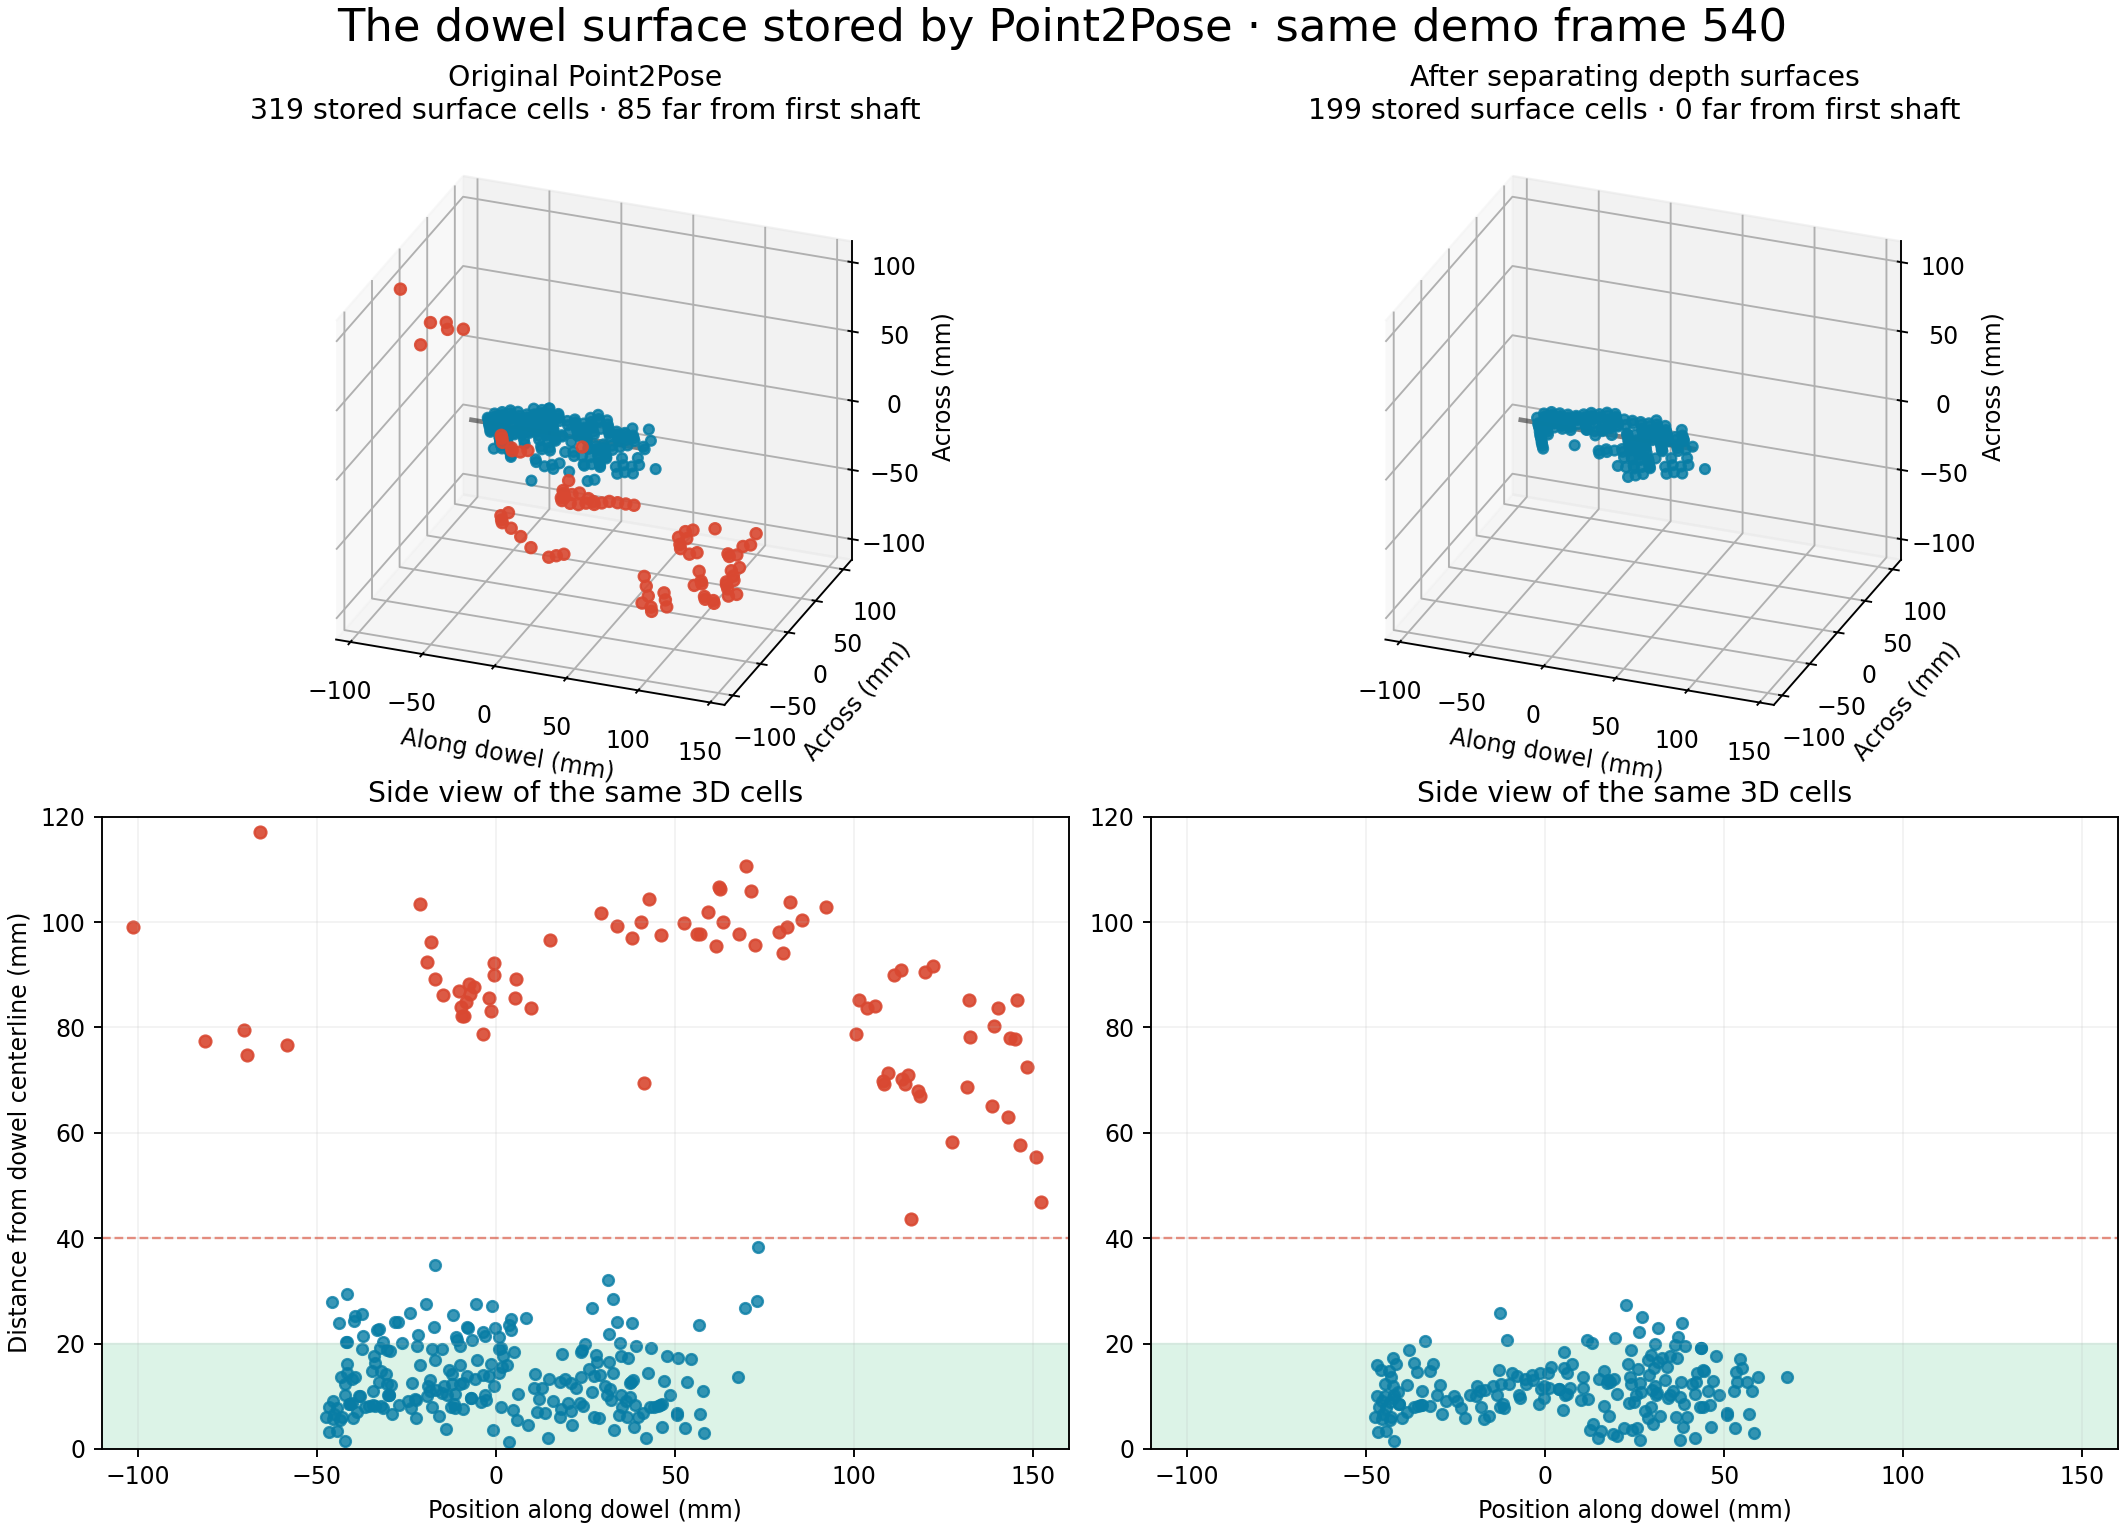
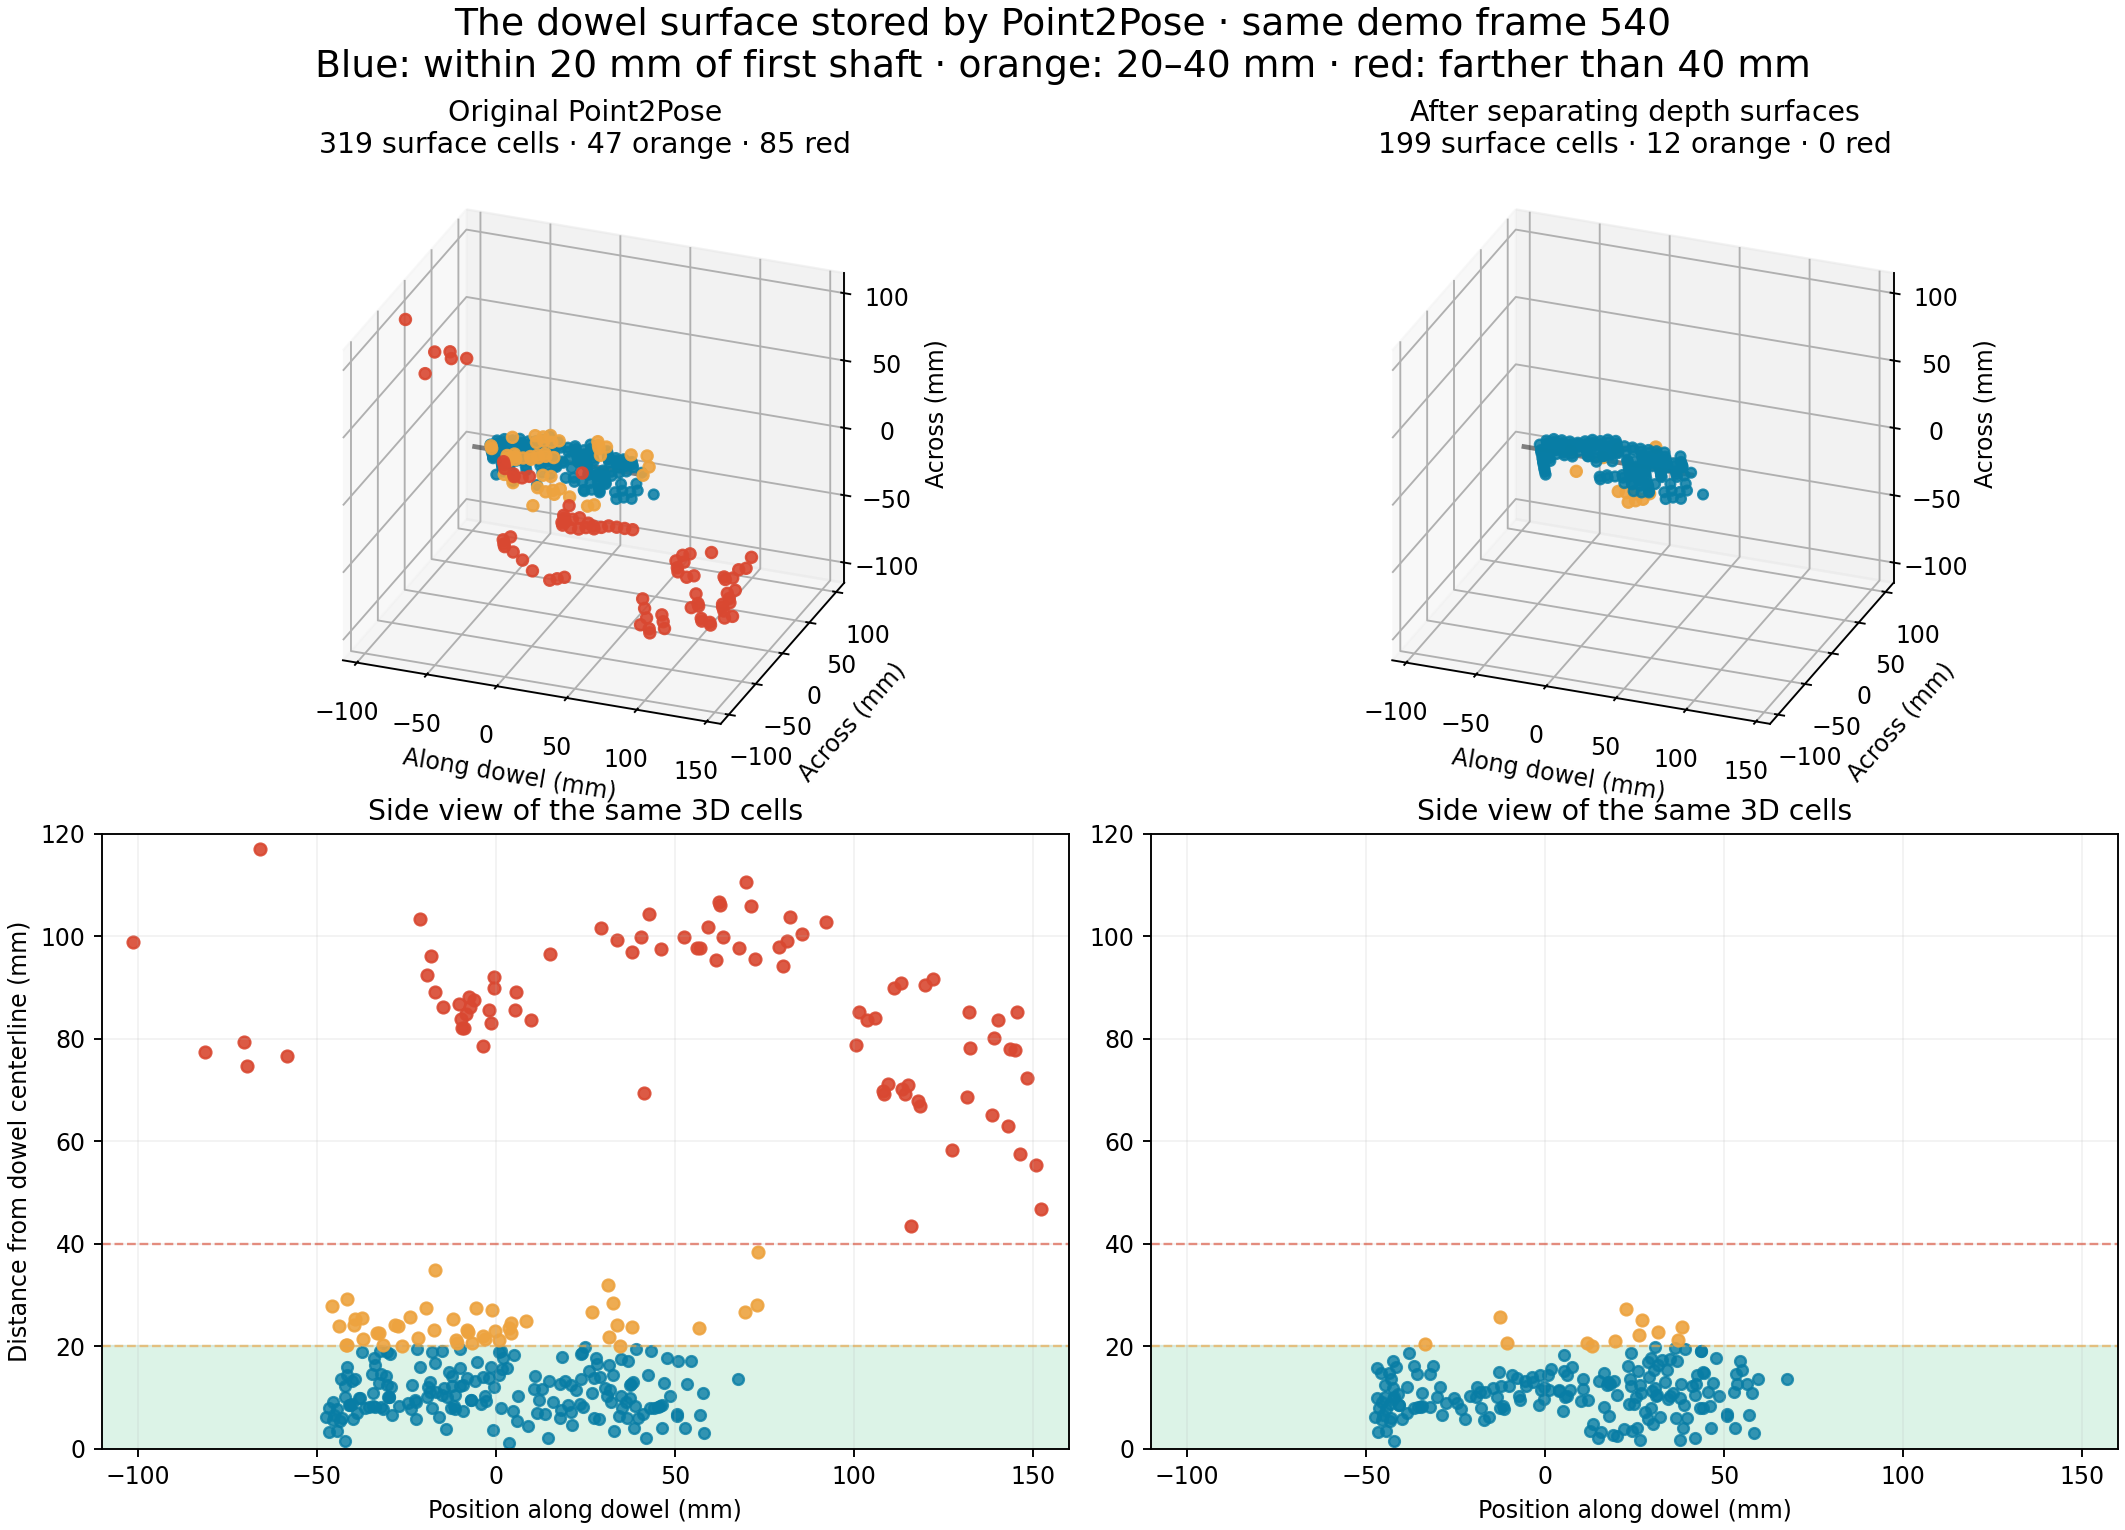
Expose residual SDF surface error after depth filtering
The original surface visualization colored every cell within 40 mm of the first shaft blue, hiding a smaller residual spread beyond the dowel. Distinguish cells within 20 mm, from 20 to 40 mm, and beyond 40 mm, then replay the filtered tracker with per-keyframe SDF snapshots to locate when the remaining cells enter.

The filtered final map has 12 cells beyond 20 mm, three beyond 25 mm, and none beyond 40 mm. A later contact-frame keyframe still admits masked depth at the gripper and ring boundaries that lies outside the first-view shaft when transformed by its estimated pose. This does not uniquely identify bad depth versus pose registration. The snapshot option is diagnostic only; the saved pose and tracker fields match the previous filtered replay exactly. Verified by regenerating the plot and passing pre-commit checks.

diff --git a/docs/proofs/flash-tracker-comparison/plot_p2p_sdf_before_after.py b/docs/proofs/flash-tracker-comparison/plot_p2p_sdf_before_after.py
@@ -48,14 +48,21 @@ def main() -> None:
         ),
     )
     fig = plt.figure(figsize=(12.5, 9.0), layout="constrained")
-    fig.suptitle("The dowel surface stored by Point2Pose · same demo frame 540", fontsize=19)
+    fig.suptitle(
+        "The dowel surface stored by Point2Pose · same demo frame 540\n"
+        "Blue: within 20 mm of first shaft · orange: 20–40 mm · red: farther than 40 mm",
+        fontsize=16,
+    )
     for column, (title, points) in enumerate(views):
         coords = (points - center) @ basis * 1000
         along_mm, side_mm, up_mm = coords.T
         radius_mm = np.hypot(side_mm, up_mm)
+        near = radius_mm <= 20
+        moderate = (radius_mm > 20) & (radius_mm <= 40)
         far = radius_mm > 40
         panel_3d = fig.add_subplot(2, 2, column + 1, projection="3d")
-        panel_3d.scatter(along_mm[~far], side_mm[~far], up_mm[~far], s=17, c="#087da5", alpha=0.85)
+        panel_3d.scatter(along_mm[near], side_mm[near], up_mm[near], s=17, c="#087da5", alpha=0.85)
+        panel_3d.scatter(along_mm[moderate], side_mm[moderate], up_mm[moderate], s=22, c="#eda33f", alpha=0.9)
         panel_3d.scatter(along_mm[far], side_mm[far], up_mm[far], s=22, c="#d94831", alpha=0.9)
         panel_3d.plot([-60, 60], [0, 0], [0, 0], color="#333333", linewidth=2, alpha=0.6)
         panel_3d.set(
@@ -65,16 +72,18 @@ def main() -> None:
             xlabel="Along dowel (mm)",
             ylabel="Across (mm)",
             zlabel="Across (mm)",
-            title=f"{title}\n{len(points)} stored surface cells · {far.sum()} far from first shaft",
+            title=f"{title}\n{len(points)} surface cells · {moderate.sum()} orange · {far.sum()} red",
         )
         panel_3d.set_box_aspect((270, 230, 230))
         panel_3d.view_init(elev=26, azim=-69)
         panel_3d.set_proj_type("ortho")
 
         side_view = fig.add_subplot(2, 2, column + 3)
-        side_view.scatter(along_mm[~far], radius_mm[~far], s=21, c="#087da5", alpha=0.8)
+        side_view.scatter(along_mm[near], radius_mm[near], s=21, c="#087da5", alpha=0.8)
+        side_view.scatter(along_mm[moderate], radius_mm[moderate], s=25, c="#eda33f", alpha=0.9)
         side_view.scatter(along_mm[far], radius_mm[far], s=25, c="#d94831", alpha=0.9)
         side_view.axhspan(0, 20, color="#dcf3e7", zorder=-1)
+        side_view.axhline(20, color="#eda33f", linewidth=1, linestyle="--", alpha=0.6)
         side_view.axhline(40, color="#d94831", linewidth=1, linestyle="--", alpha=0.6)
         side_view.set(
             xlim=(-110, 160),

diff --git a/docs/proofs/flash-tracker-comparison/p2p_temporal_sdf_bridge.py b/docs/proofs/flash-tracker-comparison/p2p_temporal_sdf_bridge.py
@@ -46,6 +46,10 @@ def main() -> None:
     ordinary_init = bridge.Session.init
     snapshot_name = os.environ.get("FLASH_P2P_SDF_SNAPSHOT")
     snapshot_frame = int(os.environ["FLASH_P2P_SDF_SNAPSHOT_FRAME"]) if snapshot_name else None
+    snapshot_dir_name = os.environ.get("FLASH_P2P_SDF_KEYFRAME_SNAPSHOT_DIR")
+    snapshot_dir = Path(snapshot_dir_name) if snapshot_dir_name else None
+    if snapshot_dir is not None:
+        snapshot_dir.mkdir(parents=True, exist_ok=True)
     ordinary_answer = bridge.Session._answer
 
     def capture_snapshot(session, frame, milliseconds):
@@ -119,6 +123,21 @@ def main() -> None:
                 seen_keyframes.add(obj_id)
                 if filter_mode == "temporal":
                     previous.append(candidate)
+                if snapshot_dir is not None:
+                    volume = obj.sdf_volume
+                    if volume.gpu_mode:
+                        raise RuntimeError("diagnostic snapshot requires the CPU TSDF backend")
+                    np.savez_compressed(
+                        snapshot_dir / f"object_{obj_id}_frame_{int(frame.id):04d}.npz",
+                        tsdf=volume._tsdf_vol_cpu,
+                        weight=volume._weight_vol_cpu,
+                        origin=volume._vol_origin,
+                        voxel_size=volume._voxel_size,
+                        selected_depth=selected_depth,
+                        mask=mask_array,
+                        pose=keyframe.pose,
+                        intrinsics=frame.intrinsics,
+                    )
             with log_path.open("a") as stream:
                 stream.write(
                     json.dumps(

diff --git a/docs/proofs/flash-tracker-comparison/EVIDENCE.md b/docs/proofs/flash-tracker-comparison/EVIDENCE.md
@@ -551,9 +551,11 @@ The temporal branch retained a later keyframe pixel when its 10 mm object-frame 
 
 At frame 540, the depth-filtered SDF has **199** observed near-zero voxels, **none** more than 40 mm from the original shaft axis; the unfiltered SDF has **319**, including **85** off-axis voxels ([filtered snapshot](p2p_dowel_sdf_depth_component_540.npz), [original snapshot](p2p_dowel_sdf_release_snapshots.npz)). The fixed-pose temporal-map ablation also eliminates off-axis voxels, but removes some legitimate new-view surface. The decisive test is the _emitted pose_, not just the map:
 
-Here is the **stored SDF surface itself**, shown as a 3D view and a side projection at the same frame. Each dot is an observed 5 mm volume cell close to the SDF zero level, not a separately fitted mesh. Blue cells stay within 40 mm of the first-view dowel shaft; red cells lie farther away. That distance colors the plot only—the filter did not use the known shaft to select pixels. The original map contains a rod plus distant false patches; the depth-separated map retains the rod without those patches. [Plot source](plot_p2p_sdf_before_after.py).
+Here is the **stored SDF surface itself**, shown as a 3D view and a side projection at the same frame. Each dot is an observed 5 mm volume cell close to the SDF zero level, not a separately fitted mesh. Color marks distance from the first-view shaft: blue within 20 mm, orange from 20–40 mm, and red beyond 40 mm. This coloring is diagnostic only; the filter did not use the known shaft. The original map contains a rod plus distant false patches; the depth-separated map removes those patches but still has **12 cells** beyond 20 mm, including **3** beyond 25 mm (maximum **27.4 mm**). The first clean map had no cell beyond 20 mm, though its 5 mm cells and finite SDF surface band extend its apparent radius to 19.1 mm. [Plot source](plot_p2p_sdf_before_after.py).
 
 ![Observed SDF surface cells before and after separating depth surfaces](p2p_sdf_before_after.png)
+
+The remaining cells are not random plotting noise. Capturing the SDF after each filtered fusion shows cells beyond 20 mm first appear after a view recorded at demo frame 361 (**2** cells), rise after frame 390 (**6**), and rise again after frame 497 (**14**); after the final view at 517, **12** remain. At frame 497, the connected-depth filter admitted **252 of 2,561** masked pixels that, when transformed with that keyframe's estimated pose, lie more than 20 mm from the first-view shaft. They cluster at the gripper–dowel and ring–dowel boundaries. The filter only separates _disconnected_ depth patches; a boundary patch that connects to the main dowel patch can pass. These data do not distinguish a wrong depth return from an imperfect keyframe pose for every pixel, so the filtered SDF is cleaner but still not a verified dowel surface. The replay-only bridge can save the per-keyframe volumes and selected depth with `FLASH_P2P_SDF_KEYFRAME_SNAPSHOT_DIR` for this check.
 
 | Dowel, frames 514–550 after release; median per-frame metric | Original P2P | Three-keyframe window | Depth component |
 | ------------------------------------------------------------ | -----------: | --------------------: | --------------: |
